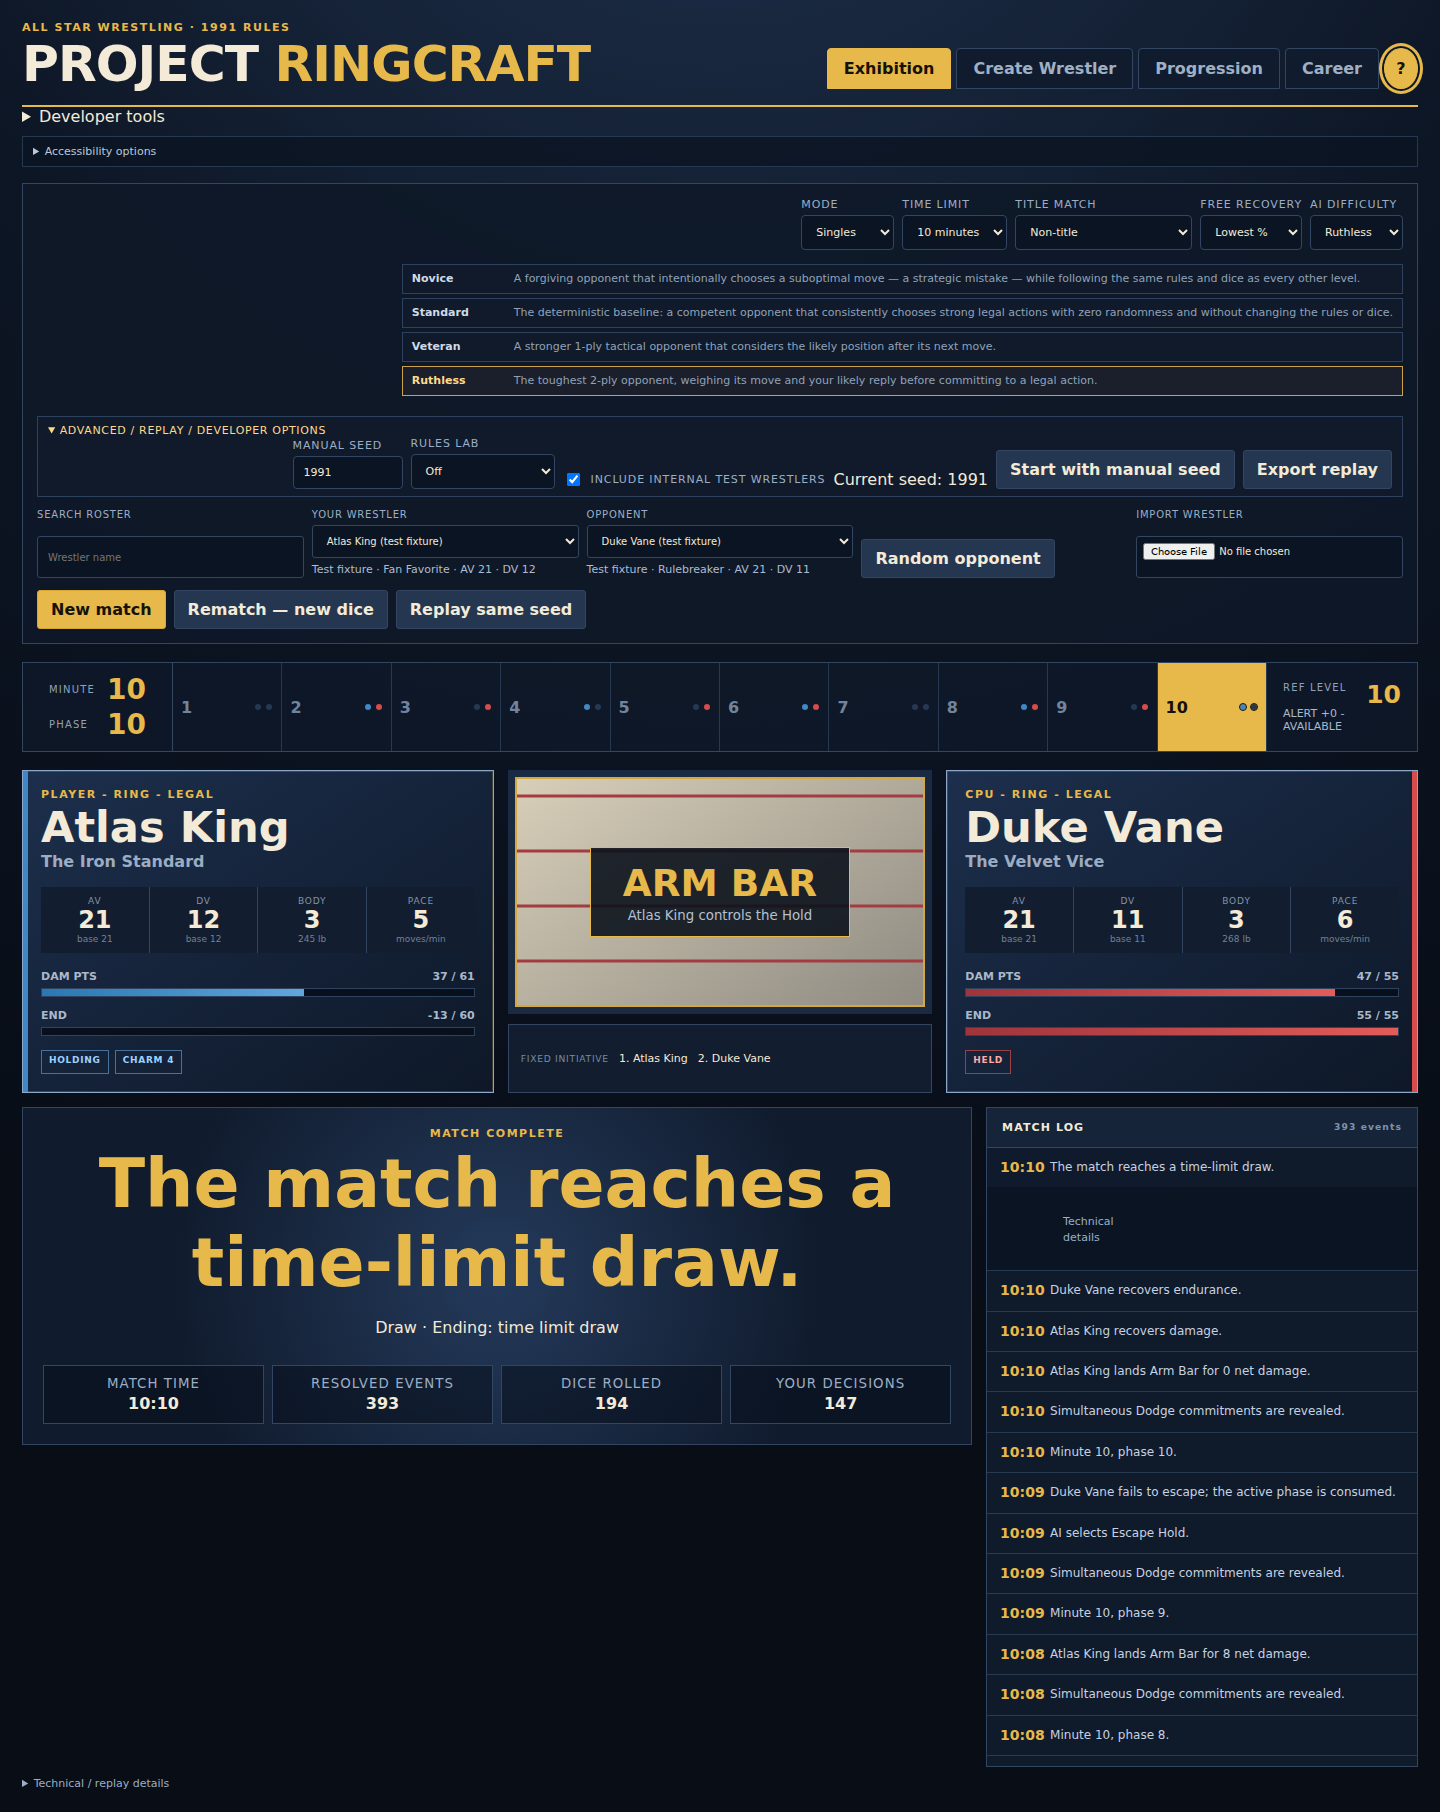
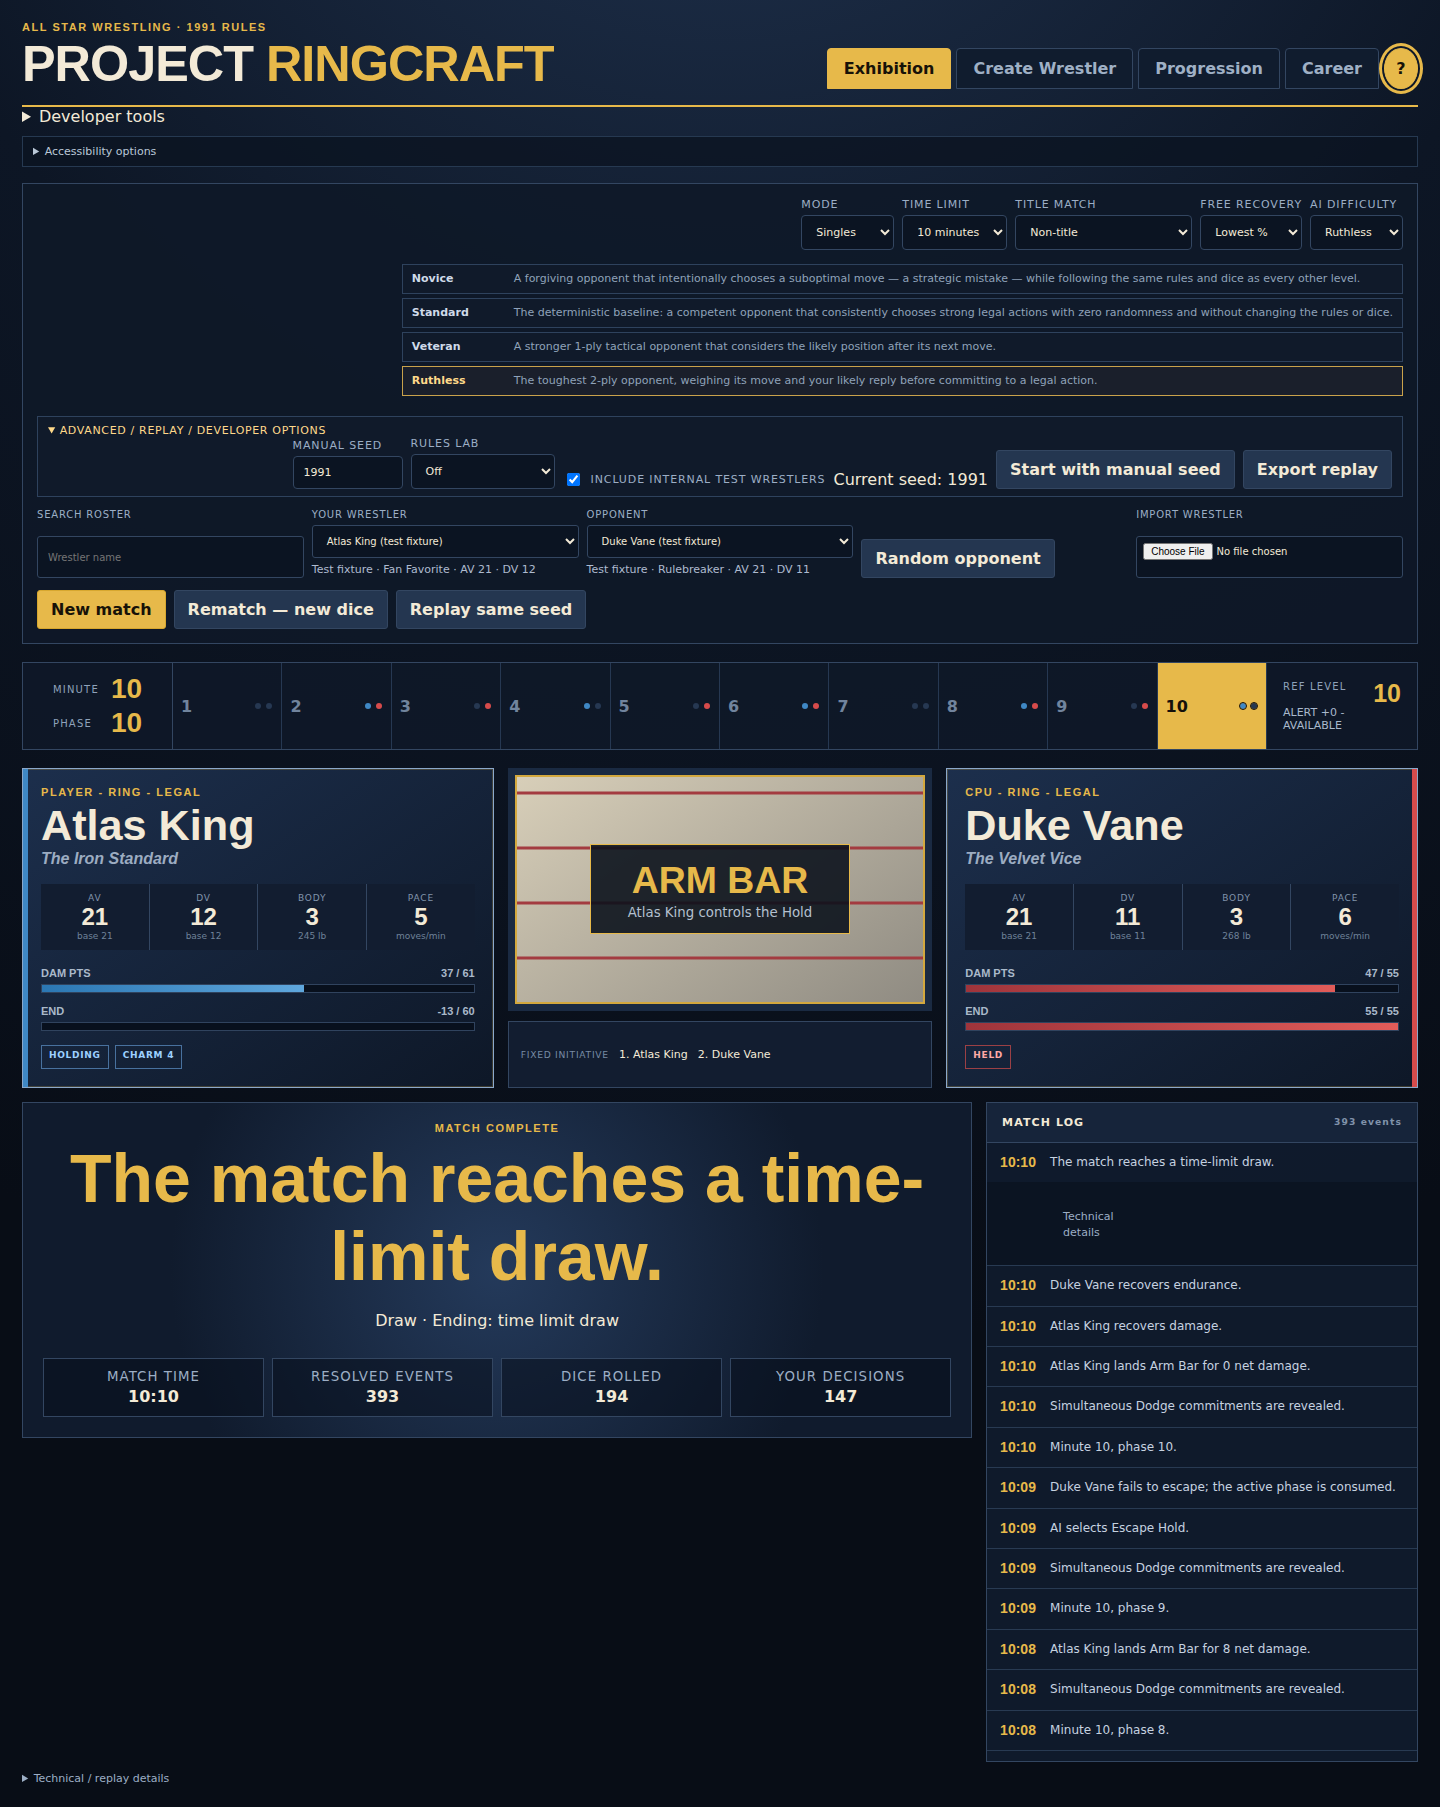
test: reconcile canonical visual baselines

diff --git a/docs/visual-baseline-reconciliation.md b/docs/visual-baseline-reconciliation.md
@@ -18,6 +18,10 @@ The workflow had changed the Linux package/assertion to DejaVu for every family.
 
 ## Result and baseline decision
 
-With canonical URW fonts, all 22 captures reproduce their committed pins. Creator desktop and creator validation use the pre-existing narrow anti-aliasing tolerance and reported zero meaningful channel delta; all others are byte/pixel identical. There was no reviewed UI regression and no screenshot was re-baselined.
+The corrected mixed-font workflow proved that the generated set is stable: two consecutive captures were identical for 21 profiles, while creator validation remained within its pre-existing narrow anti-aliasing tolerance. The stable set still differed from all 22 older pins by small, accumulated font-metric changes. The same head passed the complete M9 clean-room harness, including browser assertions, so this was isolated to obsolete screenshot provenance rather than game behavior.
 
-The workflow now asserts font resolution before running. The harness also pins browser preferences explicitly and waits for font readiness, preventing a silent host-default change from becoming a new baseline.
+The failure-only diagnostic artifact from workflow run `32497280245` (`visual-qa-drift-diagnostics`, artifact `9452652891`, digest `sha256:5c44a4e3d0d658806c145bd2e18d7f21c2b7800a1971a9d4c406293285e2f78b`) was reviewed across every desktop, narrow, accessibility, creator, progression, Exhibition, tag, Career, recovery, help, and tour surface. No missing controls, overlap, hard clipping, unintended state change, or visual regression was found.
+
+All 22 pins were therefore re-baselined from that exact canonical runner artifact. This is an environment-provenance correction only: application UI source, rules, schema versions, hashes, fixtures, PRNG behavior, AI policy, probabilities, and data values were not changed.
+
+The workflow now asserts font resolution before running, preserves diagnostics on failure, pins browser preferences explicitly, and waits for font readiness. Future baseline changes must follow the same double-run stability and human-review procedure.
